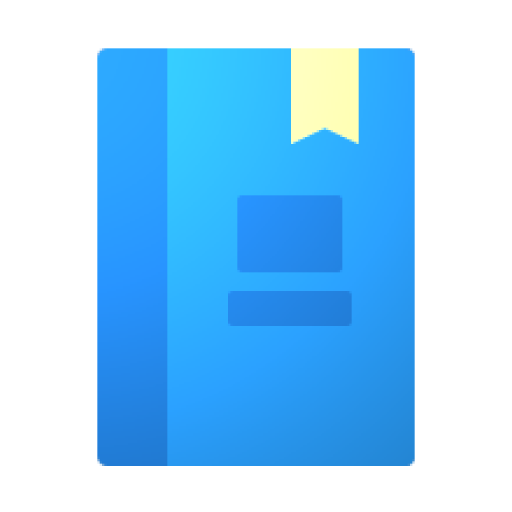
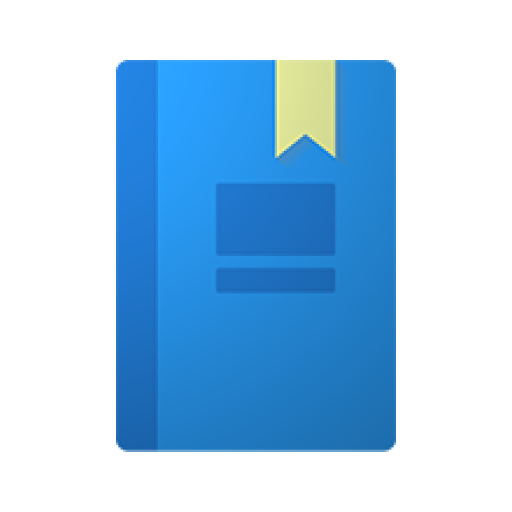
date fixed
add review fixed

need to change add review icon

diff --git a/app/src/main/java/com/example/leon/mylibrary/GUI/NewUserActivity.java b/app/src/main/java/com/example/leon/mylibrary/GUI/NewUserActivity.java
@@ -18,6 +18,7 @@ public class NewUserActivity extends BaseActivity implements View.OnClickListene
     //views
     EditText usernameEditText;
     EditText passwordEditText;
+    EditText password2EditText;
     Button createUserButton;
 
 
@@ -30,6 +31,7 @@ public class NewUserActivity extends BaseActivity implements View.OnClickListene
         //wiring
         usernameEditText = (EditText)findViewById(R.id.usernameEditText);
         passwordEditText = (EditText)findViewById(R.id.passwordEditText);
+        password2EditText = (EditText)findViewById(R.id.password2EditText);
         createUserButton = (Button)findViewById(R.id.createUserButton);
 
         //set listener
@@ -70,8 +72,9 @@ public class NewUserActivity extends BaseActivity implements View.OnClickListene
                 //grab user details
                 String username = usernameEditText.getText().toString();
                 String password = passwordEditText.getText().toString();
+                String password2 = password2EditText.getText().toString();
                 //authenticate the user details
-                if(authenticateUser(username, password)){
+                if(authenticateUser(username, password, password2)){
                     //create user and login
                     createUser(username, password);
                 }
@@ -91,7 +94,7 @@ public class NewUserActivity extends BaseActivity implements View.OnClickListene
 
 
     //create user helpers
-    private boolean authenticateUser(String username, String password) {
+    private boolean authenticateUser(String username, String password, String password2) {
         boolean hasCap = false;
         boolean hasNum = false;
 
@@ -104,9 +107,19 @@ public class NewUserActivity extends BaseActivity implements View.OnClickListene
         if(password.length() < 8){
             Toast.makeText(this, "Password must be at least eight characters", Toast.LENGTH_LONG).show();
             passwordEditText.setText("");
+            password2EditText.setText("");
             return false;
         }
-        //  ###TEST 3#### --- password must include 1 capital and numeric
+
+        // ###TEST 3#### --- passwords must mach
+        if(!password.equals(password2)){
+            Toast.makeText(this, "Passwords do no match", Toast.LENGTH_LONG).show();
+            passwordEditText.setText("");
+            password2EditText.setText("");
+            return false;
+        }
+
+        //  ###TEST 4#### --- password must include 1 capital and numeric
         for(int i = 0; i < password.length(); i++){
             //check for cap
             if(Character.isUpperCase(password.charAt(i))){
@@ -122,8 +135,9 @@ public class NewUserActivity extends BaseActivity implements View.OnClickListene
             return true;
         }else{
             //if TEST 3 failed...
-            Toast.makeText(this, "Password must include atleist one uppercase and one numeric", Toast.LENGTH_LONG).show();
+            Toast.makeText(this, "Password must include at least one uppercase and one numeric", Toast.LENGTH_LONG).show();
             passwordEditText.setText("");
+            password2EditText.setText("");
             return false;
         }
 
@@ -149,5 +163,6 @@ public class NewUserActivity extends BaseActivity implements View.OnClickListene
     private void trimUserDetails() {
         usernameEditText.setText(usernameEditText.getText().toString().trim());
         passwordEditText.setText(passwordEditText.getText().toString().trim());
+        password2EditText.setText(password2EditText.getText().toString().trim());
     }
 }

diff --git a/app/src/main/java/com/example/leon/mylibrary/GUI/Fragments/BookViewFragment.java b/app/src/main/java/com/example/leon/mylibrary/GUI/Fragments/BookViewFragment.java
@@ -6,7 +6,6 @@ import android.app.Fragment;
 import android.content.DialogInterface;
 import android.os.Bundle;
 import android.support.annotation.Nullable;
-import android.text.format.Time;
 import android.view.LayoutInflater;
 import android.view.View;
 import android.view.ViewGroup;
@@ -20,6 +19,9 @@ import com.example.leon.mylibrary.GUI.UserActivity;
 import com.example.leon.mylibrary.OOP.Book;
 import com.example.leon.mylibrary.OOP.Review;
 import com.example.leon.mylibrary.R;
+
+import java.text.DateFormat;
+import java.util.Date;
 
 /**
  * Created by Leon on 3/05/2015.
@@ -70,7 +72,7 @@ public class BookViewFragment extends Fragment implements View.OnClickListener {
         nameTextView.setText(book.getName());
         byTextView.setText(book.getBy());
         pubTextView.setText(book.getPub());
-        //reviews listview
+        //reviews list view
         reviewAdapter.addAll(book.getReviews());
         reviewAdapter.notifyDataSetChanged();
     }
@@ -93,9 +95,7 @@ public class BookViewFragment extends Fragment implements View.OnClickListener {
         // Button Responses
         alert.setPositiveButton("Submit", new DialogInterface.OnClickListener() {
             public void onClick(DialogInterface dialog, int whichButton) {
-                Time theTime = new Time();
-                theTime.setToNow();
-                String time = theTime.format2445();
+                String time = DateFormat.getDateInstance(DateFormat.SHORT).format(new Date());
                 Review review = new Review(activity.getUsername(), time
                         , reviewInput.getText().toString());
                 submitReview(review);

diff --git a/app/src/main/java/com/example/leon/mylibrary/GUI/Fragments/BookReviewAdapter.java b/app/src/main/java/com/example/leon/mylibrary/GUI/Fragments/BookReviewAdapter.java
@@ -55,7 +55,7 @@ public class BookReviewAdapter extends BaseAdapter {
         TextView timeTextView = (TextView)view.findViewById(R.id.bookReviewTimeTextView);
         TextView reviewTextView = (TextView)view.findViewById(R.id.bookReviewReviewTextView);
 
-        Review review = reviews.get(position);
+        Review review = reviews.get( (getCount() - 1) - position);
 
         usernameTextView.setText(review.getUsername());
         timeTextView.setText(review.getTime());
